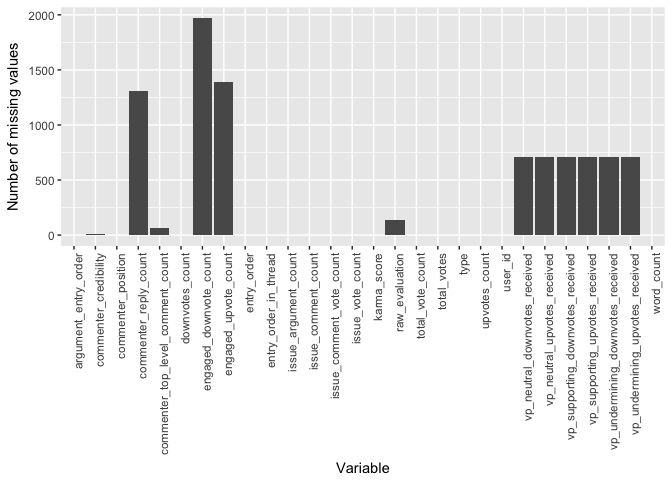
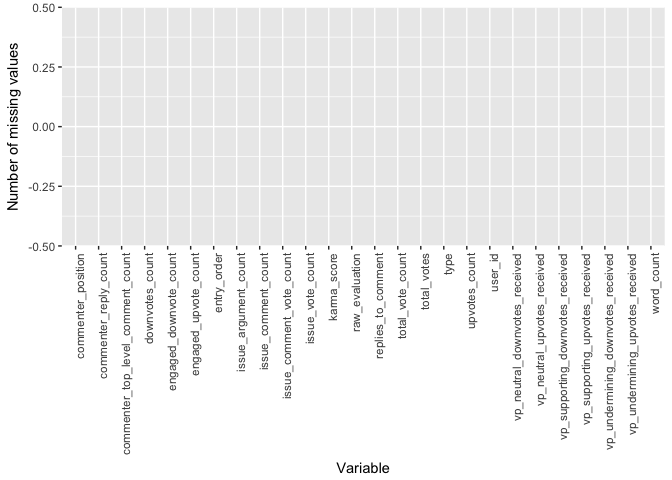
changes to report

diff --git a/Rmd/yourview.md b/Rmd/yourview.md
@@ -44,13 +44,17 @@ Load data:
 
 ``` r
 # read Chris' SQL query, use it to load the comments data frame from the DB
-fileName <- '~/Documents/2017-02_YourView_data_extraction/comments.sql'
+fileName <- '~/yourview/SQL/comments_new.sql'
 comments.query <- readChar(fileName, file.info(fileName)$size)
 comments.df <- dbGetQuery(con, comments.query)
 
+# remove replies 
+replies <- which(comments.df$entry_order_in_thread != 1)
+comments.df <- comments.df[-replies, ]
+
 # these are the variables James used in his analysis. 
 selected.vars <- c("user_id",
-                   "commenter_credibility",
+                   #"commenter_credibility",
                    "commenter_top_level_comment_count", 
                    "commenter_reply_count", 
                    "issue_vote_count", 
@@ -59,8 +63,8 @@ selected.vars <- c("user_id",
                    "issue_argument_count", 
                    "word_count", 
                    "entry_order", # nb: James' data said "entry_order_in_issue"
-                   "entry_order_in_thread", 
-                   "argument_entry_order", 
+                   #"entry_order_in_thread", 
+                   #"argument_entry_order", 
                    "upvotes_count", 
                    "downvotes_count", 
                    "karma_score", 
@@ -76,7 +80,8 @@ selected.vars <- c("user_id",
                    "type",
                    "engaged_upvote_count", 
                    "engaged_downvote_count", 
-                   "raw_evaluation")
+                   "raw_evaluation", 
+                   "replies_to_comment")
 
 comments.df2 <- comments.df[, selected.vars]
 ```
@@ -85,12 +90,12 @@ Check out the distribution of comments per user. Note there are a few users with
 
 ``` r
 many.comments <- table(comments.df$user_id)
-hist(many.comments, breaks=100, xlab="Number of comments", ylab="Users with X comments")
+hist(many.comments, breaks=75, xlab="Number of comments", ylab="Users with X comments")
 ```
 
 ![](yourview_files/figure-markdown_github-ascii_identifiers/prolific_users-1.png)
 
-Check number of NAs in each column. Some columns have lots!
+Check number of NAs in each column. We are down to only two NA values, hooray!
 
 ``` r
 numnas <- function(x) sum(is.na(x))
@@ -122,6 +127,9 @@ comments.df2 <- comments.df2[na.sum==0, ]
 Split up USERS into ten groups, and use those to partition comments
 
 ``` r
+# set seed so results are reproducible
+set.seed(123)
+
 users <- unique(comments.df2$user_id)
 # note that createFolds returns a list of *indices* of user IDs.
 flds <- createFolds(users, k = 10, list = TRUE, returnTrain = FALSE)
@@ -161,7 +169,7 @@ Correlation between predicted and true values
 cor(comments.df2$raw_evaluation, predicted)
 ```
 
-    ## [1] 0.6947346
+    ## [1] 0.745962
 
 R squared
 
@@ -169,7 +177,7 @@ R squared
 cor(comments.df2$raw_evaluation, predicted)^2
 ```
 
-    ## [1] 0.4826562
+    ## [1] 0.5564593
 
 Mean squared error
 
@@ -177,7 +185,7 @@ Mean squared error
 sum((comments.df2$raw_evaluation - predicted)^2) / nrow(comments.df2)
 ```
 
-    ## [1] 1.891821
+    ## [1] 1.389024
 
 Mean absolute error
 
@@ -185,21 +193,46 @@ Mean absolute error
 sum(abs(comments.df2$raw_evaluation - predicted)) / nrow(comments.df2)
 ```
 
-    ## [1] 1.105561
+    ## [1] 0.9608684
 
-TODO
-====
+You might think the residual error is related to how much info we have about each commenter. There is a correlation between the error and the number of comments a person made, but it is quite small:
 
--   better evaluation of the model
--   repeat multiple times and average results
--   set seed for reproducible results
--   check folds for how even/uneven the group sizes are?
--   down-weight comments by prolific users
+``` r
+cor(comments.df2$commenter_top_level_comment_count, 
+     (comments.df2$raw_evaluation - predicted)^2)
+```
+
+    ## [1] 0.1429072
+
+In fact, all single variables have very small correlations with the error:
+
+``` r
+# comments.df2$squared.error <- (comments.df2$raw_evaluation - predicted)^2
+# numeric.cols <- vector(mode="logical", length=ncol(comments.df2))
+# for (i in 1:length(numeric.cols)) {
+#   numeric.cols[i] <- is.numeric(comments.df2[,i])
+# }
+# sum(numeric.cols)
+# error.cors <- cor(comments.df2[, which(numeric.cols)])[-26,26]
+# error.cors[order(abs(error.cors), decreasing=T)]
+```
+
+If we plot the relationship between mean squared error and number of comments, you can see there is no relationship
+
+``` r
+plot(comments.df2$commenter_top_level_comment_count, 
+     (comments.df2$raw_evaluation - predicted)^2, 
+     col = alpha("black", 0.07), pch=16,
+     xlab="Number of comments by comment author", 
+     ylab="Squared error of regression on this comment")
+```
+
+![](yourview_files/figure-markdown_github-ascii_identifiers/error_info-1.png)
 
 NOTES
 -----
 
-### PROBLEM 1: many comments made by a small number of users!
+### PROBLEM: many comments made by a small number of users!
 
 1.  how to handle this when splitting the data into train and test sets?
 2.  would not want small number of users to have undue leverage over results
@@ -211,10 +244,17 @@ NOTES
 
 Note that: \* the randomForest package does not allow you to weight *cases*. \* The ranger package allows this. \* But the ranger package does not have a method for imputing missing data.
 
-### PROBLEM 2: I don't like any of R's methods for dealing with missing data in a random forest context.
+### TODO
 
-Weka handles this by splitting the cases with missing values into "fractional instances". See: <http://weka.8497.n7.nabble.com/random-forest-and-missing-values-td30476.html>
+-   try removing features and see whether results degrade
+-   more evaluation of the model?
+-   repeat multiple times and average results
+-   set seed for reproducible results
+-   check folds for how even/uneven the group sizes are?
+-   down-weight comments by prolific users
 
-in R, you can impute values, drop cases with missing values, or drop vars.
+### DONE
 
-For now, I'll just drop vars and cases, but I'll come back to this.
+-   checked SQL query of features; fixed null values
+-   added "number of replies to this comment" feature
+-   removed replies, since they are so different to comments
